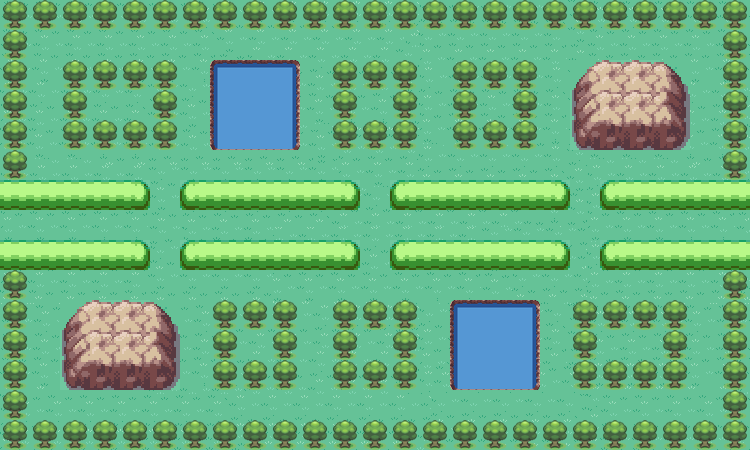
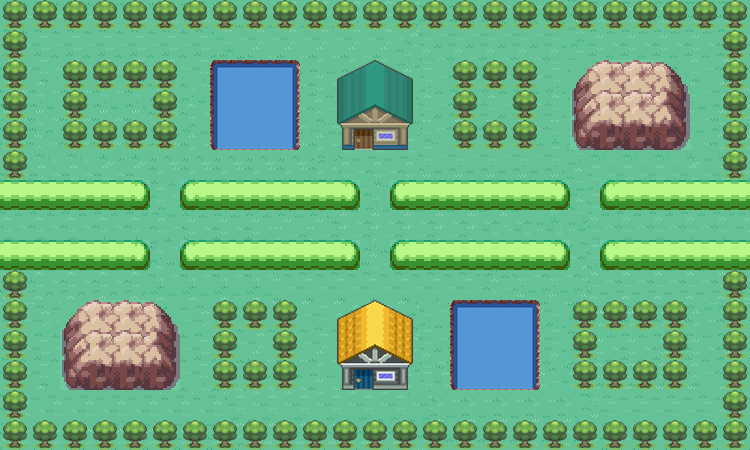
Badges added.

Changed region(s): [[0.4293, 0.6533, 0.5827, 0.8711], [0.4293, 0.1244, 0.5827, 0.3422]]

diff --git a/js/game.js b/js/game.js
@@ -17,25 +17,64 @@
 			that.element.style.top = that.y + 'px';
 		};
 	};
+	/**************************** Badge Class *************************/
+	function Badge() {
+		var that = this;
+		this.element = document.createElement('div');
+		this.element.style.background = 'url(images/badge.png)';
+		this.element.backgroundPosition = '0px 0px';
+
+		this.x = 0;
+		this.y = 0;
+
+		this.init = function(mapX, mapY) {
+			that.element.className = 'badge';
+			that.x = mapX * 30;
+			that.y = mapY * 30;
+			that.element.style.left = that.x + 'px';
+			that.element.style.top = that.y + 'px';
+			Animation(that.element, 12, 125);
+		};
+
+		this.removeBadge = function() {
+			that.element.remove();
+		};
+	};
+
+	/*************************** Animation **************************/
+	function Animation(element, noOfSprites, time) {
+		var currentSpriteNoX = 0;
+		var animateSprite = function() {
+			var currentX = 30 * currentSpriteNoX;
+			element.style.backgroundPositionX = currentX +'px';
+			if(currentSpriteNoX == noOfSprites) {
+				currentSpriteNoX = 0;
+			}
+			else {
+				currentSpriteNoX += 1;
+			}
+		};
+		setInterval(animateSprite, time);
+	};
 
 	/******************************* Pokeball Class *******************************/
 
 	function Pokeball() {
 		var that = this;
 		this.element = document.createElement('div');
-		this.element.style.width = 30 + 'px';
-		this.element.style.height = 30 + 'px';
 		this.element.style.background = 'url(images/pokeball.png)';
+		this.element.backgroundPosition = '0px 0px';
 
 		this.x = 0;
 		this.y = 0;
 
-		this.init = function(x,y) {
+		this.init = function(mapX, mapY) {
 			that.element.className = 'pokeball';
-			that.x = x;
-			that.y = y;
+			that.x = mapX;
+			that.y = mapY;
 			that.element.style.left = that.x + 'px';
 			that.element.style.top = that.y + 'px';
+			Animation(that.element, 6, 125);
 		};
 
 		this.removePokeball = function() {
@@ -105,6 +144,16 @@
 			}
 		};
 
+		var animate = function() {
+			var currentX = 30 * currentSpriteNox;
+			that.element.style.backgroundPositionX = currentX + 'px';
+			if(currentSpriteNox == 4) {
+				currentSpriteNox = 0;
+			} else {
+				currentSpriteNox = currentSpriteNox + 1;
+			}
+		};
+
 		this.updatePosition = function(path,velocity) {
 			
 			var coordinate = [];
@@ -114,7 +163,6 @@
 			if (that.pathCounter < path.length) {
 				var newPositionX = coordinate[0]*30;
 				var newPositionY = coordinate[1]*30;
-				console.log(newPositionX, newPositionY);
 
 				if(that.pathCounter > 0) {
 					var oldPosition = path[that.pathCounter - 1];
@@ -127,24 +175,12 @@
 							//moving down
 							that.y = that.y + velocity;
 							that.element.style.background = 'url(images/zapdos-down.png)';
-							var currentX = 30 * currentSpriteNox;
-							that.element.style.backgroundPositionX = currentX + 'px';
-							if(currentSpriteNox == 4) {
-								currentSpriteNox = 0;
-							} else {
-								currentSpriteNox = currentSpriteNox + 1;
-							}
+							animate();
 						}else if(newPositionY < oldPositionY) {
 							//moving up
 							that.y = that.y - velocity;
 							that.element.style.background = 'url(images/zapdos-up.png)';
-							var currentX = 30 * currentSpriteNox;
-							that.element.style.backgroundPositionX = currentX + 'px';
-							if(currentSpriteNox == 4) {
-								currentSpriteNox = 0;
-							} else {
-								currentSpriteNox = currentSpriteNox + 1;
-							}
+							animate();
 						}
 					}
 					
@@ -154,24 +190,12 @@
 							//moving right
 							that.x = that.x + velocity;
 							that.element.style.background = 'url(images/zapdos-right.png)';
-							var currentX = 30 * currentSpriteNox;
-							that.element.style.backgroundPositionX = currentX + 'px';
-							if(currentSpriteNox == 4) {
-								currentSpriteNox = 0;
-							} else {
-								currentSpriteNox = currentSpriteNox + 1;
-							}
+							animate();
 						}else if(newPositionX < oldPositionX) {
 							//moving left
 							that.x = that.x - velocity;
 							that.element.style.background = 'url(images/zapdos-left.png)';
-							var currentX = 30 * currentSpriteNox;
-							that.element.style.backgroundPositionX = currentX + 'px';
-							if(currentSpriteNox == 4) {
-								currentSpriteNox = 0;
-							} else {
-								currentSpriteNox = currentSpriteNox + 1;
-							}
+							animate();
 						}
 					}
 				}else {
@@ -332,12 +356,14 @@
 		var path;
 		var counter = 0;
 		var number = 0;
+		var badgeCount = 0;
 		var pokeballFound = false;
 
 		this.obstacleArray = [];
 		this.guy;
+		this.pokeballArray = [];
 		this.pokemon = [];
-		this.pokeball = [];
+		this.badges = [];
 
 		this.init = function() {
 			createMap(levelMap);
@@ -359,17 +385,46 @@
 			charizard.init();
 			that.element.appendChild(charizard.element);
 			that.pokemon.push(charizard);*/
-			
 
-			var pokeballZapdos = new Pokeball();
-			pokeballZapdos.init(that.pokemon[0].x, that.pokemon[0].y);
-			that.element.appendChild(pokeballZapdos.element);
-			that.pokeball.push(pokeballZapdos);
+			var badge = new Badge();
+			badge.init(6, 1);
+			that.element.appendChild(badge.element);
+			that.badges.push(badge);
 
-			/*var pokeballCharizard = new Pokeball();
-			pokeballCharizard.init(that.pokemon[1].x, that.pokemon[1].y);
-			that.element.appendChild(pokeballCharizard.element);
-			that.pokeball.push(pokeballCharizard);*/
+			badge = new Badge();
+			badge.init(18, 1);
+			that.element.appendChild(badge.element);
+			that.badges.push(badge);
+
+			badge = new Badge();
+			badge.init(1, 5);
+			that.element.appendChild(badge.element);
+			that.badges.push(badge);
+
+			badge = new Badge();
+			badge.init(23, 5);
+			that.element.appendChild(badge.element);
+			that.badges.push(badge);
+
+			badge = new Badge();
+			badge.init(1, 9);
+			that.element.appendChild(badge.element);
+			that.badges.push(badge);
+
+			badge = new Badge();
+			badge.init(23, 9);
+			that.element.appendChild(badge.element);
+			that.badges.push(badge);
+
+			badge = new Badge();
+			badge.init(6, 13);
+			that.element.appendChild(badge.element);
+			that.badges.push(badge);
+
+			badge = new Badge();
+			badge.init(18, 13);
+			that.element.appendChild(badge.element);
+			that.badges.push(badge);
 
 			this.interval = setInterval(gameLoop, 100);
 		};
@@ -384,17 +439,6 @@
 			that.guy.updatePosition();
 
 			var gridBackup = grid.clone();
-
-			//if guy finds pokeball, go to safety
-			/*var goToSafety = function(endPosX, endPosY, velocity) {
-				if(number === 0) {
-					path = finder.findPath(pokemonCoordX, pokemonCoordY, endPosX, endPosY, gridBackup);
-					number = 1;
-				}
-				console.log('end position', endPosX, endPosY);
-				//that.pokemon.updatePosition(path,velocity);
-			};*/
-			
 		
 			//checking collision detection between guy and obstacles
 			for(var i = 0; i < that.obstacleArray.length; i++) {
@@ -406,14 +450,27 @@
 					that.guy.updatePosition();
 				}
 			}
-			//debugger;
+
 			//checking collision detection between guy and pokeball
-			for(var i = 0; i < that.pokeball.length; i++) {
-				if(collisionDetection(that.guy, that.pokeball[i])) {
+			for(var i = 0; i < that.pokeballArray.length; i++) {
+				if(collisionDetection(that.guy, that.pokeballArray[i])) {
 					console.log('Found Pokeball !');
-					that.pokeball[i].removePokeball();
+					that.pokeballArray[i].removePokeball();
+					that.pokeballArray[i] = null;
 					pokeballFound = true;
 				}
+				that.pokeballArray = removeEmptyValues(that.pokeballArray);
+			}
+
+			//checking collision detection between guy and badges
+			for(var i = 0; i < that.badges.length; i++) {
+				if(collisionDetection(that.guy, that.badges[i])) {
+					console.log('Found a badge !');
+					that.badges[i].removeBadge();
+					that.badges[i] = null;
+					badgeCount = badgeCount + 1;
+				}
+				that.badges = removeEmptyValues(that.badges);
 			}
 
 			for(var i = 0; i < that.pokemon.length; i++) {
@@ -432,47 +489,43 @@
 				var findNewPath = function(endPosX, endPosY, velocity) {
 					if(that.pokemon[i].checkPosition(pokemonX, pokemonY, path)) {
 						that.pokemon[i].updatePosition(path, velocity);
-						console.log('old path');
 					} else {
 						path = finder.findPath(pokemonCoordX, pokemonCoordY, endPosX, endPosY, gridBackup);
-						console.log('path found');
 					}
 				};
 
-				//check if ash found pokeball or not
-				if(pokeballFound) {
+				//check if ash collected all the badges or not
+				if(badgeCount === 8) {
+					showPokeball();
+					
 					if(that.pokemon[i].a) {
 						console.log('bottom right', that.pokemon[i].a);
-						findNewPath(23, 13, 5);
-						//if pokemon reaches end position, remove it and game over.
+						findNewPath(23, 13, 10);
 						if(pokemonCoordX === 23 && pokemonCoordY === 13) {
 							outcome(3);
 						}
 					} else if(that.pokemon[i].b) {
 						console.log('bottom left', that.pokemon[i].b);
-						findNewPath(1, 13, 5);
-						//if pokemon reaches end position, remove it and game over.
+						findNewPath(1, 13, 10);
 						if(pokemonCoordX === 1 && pokemonCoordY === 13) {
 							outcome(3);
 						}
 					} else if(that.pokemon[i].c) {
 						console.log('top left', that.pokemon[i].c);
-						findNewPath(1, 1, 5);
-						//if pokemon reaches end position, remove it and game over.
+						findNewPath(1, 1, 10);
 						if(pokemonCoordX === 1 && pokemonCoordY === 1) {
 							outcome(3);
 						}
 					} else if(that.pokemon[i].d) {
 						console.log('top right', that.pokemon[i].d);
-						findNewPath(23, 1, 5);
-						//if pokemon reaches end position, remove it and game over.
+						findNewPath(23, 1, 10);
 						if(pokemonCoordX === 23 && pokemonCoordY === 1) {
 							outcome(3);
 						}
 					}
 				} else {
-					findNewPath(guyCoordX, guyCoordY, 15);
-					console.log('follow ash.');
+					findNewPath(guyCoordX, guyCoordY, 10);
+					//console.log('follow ash.');
 				}
 
 				//checking collision detection between guy and pokemon
@@ -484,6 +537,13 @@
 					}
 				}
 			}
+		};
+
+		var showPokeball = function() {	
+			var pokeball = new Pokeball();
+			pokeball.init(390, 210);
+			that.element.appendChild(pokeball.element);
+			that.pokeballArray.push(pokeball);
 		};
 
 		/**************************** Create Map ********************************/
@@ -512,6 +572,16 @@
 			}
 		};
 
+		/********************* Removing the empty values from an array ****************/
+		var removeEmptyValues = function(array) {
+			for(var i = 0; i < array.length; i++) {
+				if(array[i] === null) {
+					array.splice(i, 1);
+				}
+			}
+			return array;
+		};
+
 		/**************************** Outcome Function ***************************/
 		var outcome = function(value) {
 			if(value === 1) {
@@ -521,8 +591,8 @@
 				alert('You got electrocuted!');
 				clearInterval(that.interval);
 			} else if(value === 3) {
-				alert('It ran away!');
 				that.pokemon[0].removePokemon();
+				alert('It flew away!');
 				clearInterval(that.interval);
 			}
 		};

diff --git a/css/layout.css b/css/layout.css
@@ -71,3 +71,9 @@
 	height: 30px;
 	position: absolute;
 }
+
+.badge {
+	width: 30px;
+	height: 30px;
+	position: absolute;
+}
